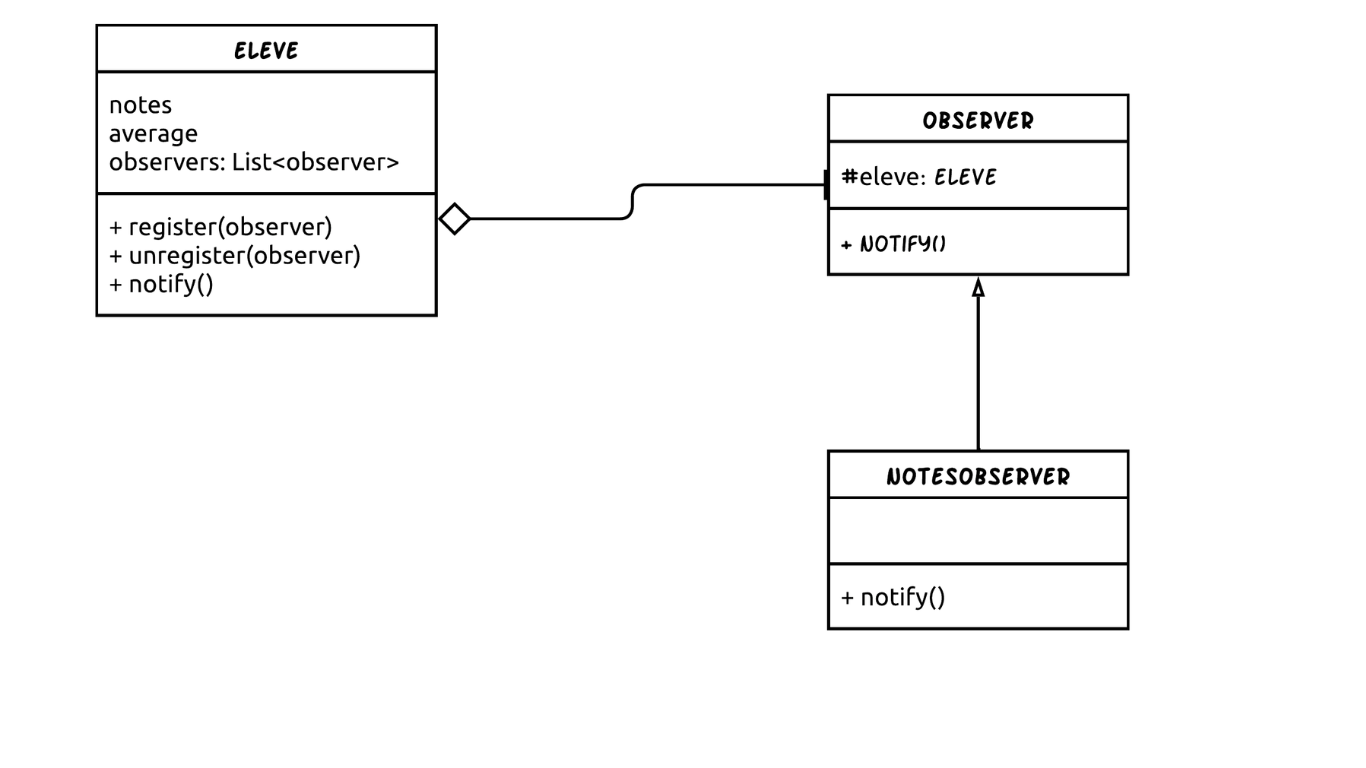
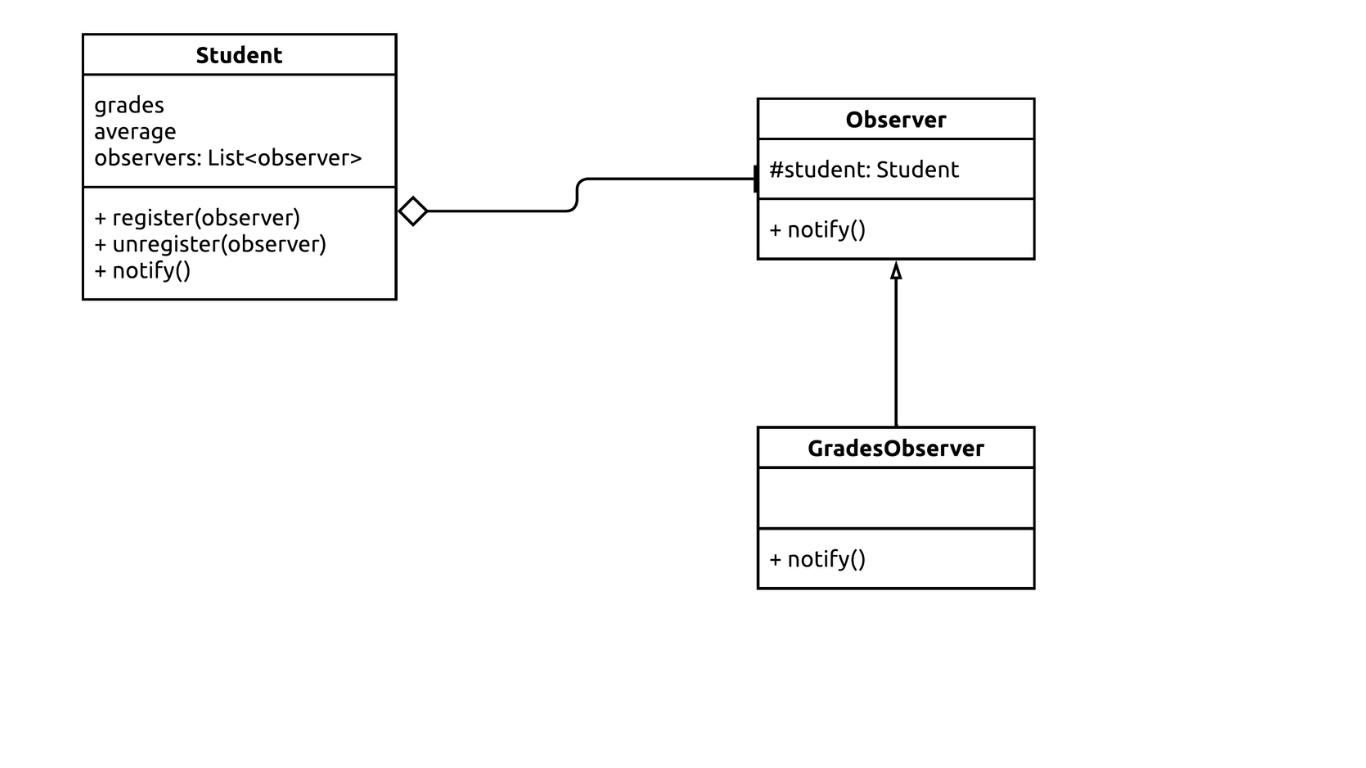
Update the picture of architecture and the class GradesObserver, ObserverMain and README

Changed region(s): [[0.0615, 0.0312, 0.4612, 0.4375], [0.4305, 0.0938, 0.8302, 0.4062], [0.5534, 0.5312, 0.8302, 0.8438]]

diff --git a/java/design-pattern-observer/src/com/faelma/pattern/observer/ObserverMain.java b/java/design-pattern-observer/src/com/faelma/pattern/observer/ObserverMain.java
@@ -10,9 +10,9 @@ public class ObserverMain {
 		
 		student.addGrades(15.0f);
 		System.out.println(student.getAverage());
-		eleve.ajouterNote(5.0f);
+		student.addGrades(5.0f);
 		System.out.println(student.getAverage());
-		eleve.ajouterNote(13.0f);
+		student.addGrades(13.0f);
 		System.out.println(student.getAverage());
 		
 	}

diff --git a/java/design-pattern-observer/src/com/faelma/pattern/observer/GradesObserver.java b/java/design-pattern-observer/src/com/faelma/pattern/observer/GradesObserver.java
@@ -20,7 +20,7 @@ public class GradesObserver extends Observer{
             
             average /= student.getGrades().size();
             
-            eleve.setAverage(average);
+            student.setAverage(average);
         }
     
     

diff --git a/java/design-pattern-observer/README.md b/java/design-pattern-observer/README.md
@@ -12,9 +12,9 @@ The case study, we will take as an example is a small application that manages n
 
 In this structure, it is possible to classify it into three distinct parts:
 
-1. Subject: Eleve
-2. Observe: Observe
-3. ConcreteObserver: NotesObserver.
+1. Subject: Student
+2. Observe: Observer
+3. ConcreteObserver: GradesObserver.
 
 ## Run
 
